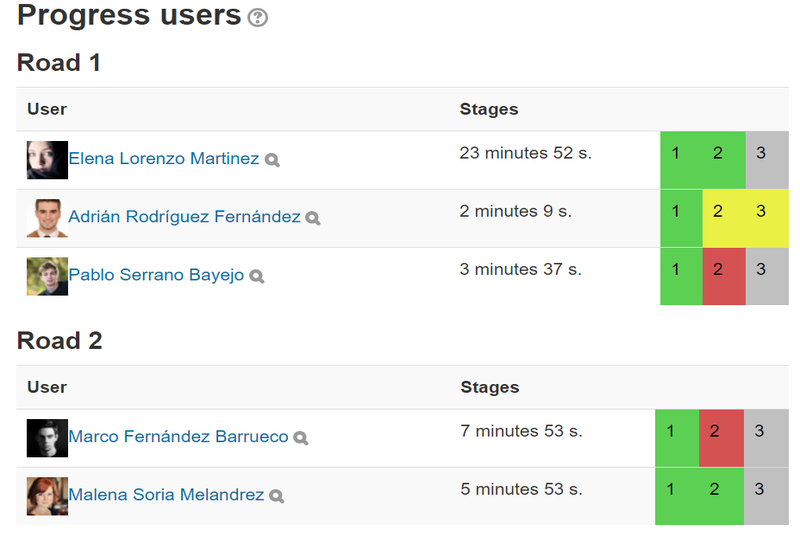
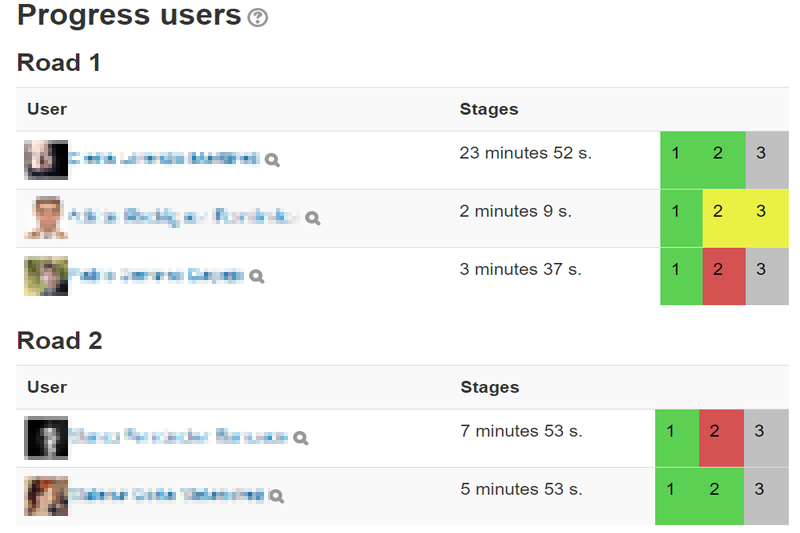
Anonymize some photos. Correct contact info.

Changed region(s): [[0.0312, 0.7805, 0.375, 0.9906], [0.0312, 0.2402, 0.375, 0.4503], [0.0312, 0.4803, 0.3125, 0.5704]]

diff --git a/es/crear_actividad.html b/es/crear_actividad.html
@@ -173,9 +173,8 @@
                     </div>
                     <div class="mbr-footer-content col-xs-12 col-md-4 text-xs-center">
                         <p><strong>Contacto</strong></p>
-                        <p> Email: itast....com</p>
-                        <p> Teléfono: +1 (0) 000 0000 001</p>
-                        <p> Fax: +1 (0) 000 0000 002</p>
+                        <p> Email: jpdecastro@tel.uva.es</p>
+                        <p> Phone: +34 983423699</p>
                     </div>
                 </div>
             </div>

diff --git a/es/instalacion.html b/es/instalacion.html
@@ -142,9 +142,8 @@
                     </div>
                     <div class="mbr-footer-content col-xs-12 col-md-4 text-xs-center">
                         <p><strong>Contacto</strong></p>
-                        <p> Email: itast....com</p>
-                        <p> Teléfono: +1 (0) 000 0000 001</p>
-                        <p> Fax: +1 (0) 000 0000 002</p>
+                        <p> Email: jpdecastro@tel.uva.es</p>
+                        <p> Phone: +34 983423699</p>
                     </div>
                 </div>
             </div>

diff --git a/es/jugar_actividad.html b/es/jugar_actividad.html
@@ -163,9 +163,8 @@
                     </div>
                     <div class="mbr-footer-content col-xs-12 col-md-4 text-xs-center">
                         <p><strong>Contacto</strong></p>
-                        <p> Email: itast....com</p>
-                        <p> Teléfono: +1 (0) 000 0000 001</p>
-                        <p> Fax: +1 (0) 000 0000 002</p>
+                        <p> Email: jpdecastro@tel.uva.es</p>
+                        <p> Phone: +34 983423699</p>
                     </div>
                 </div>
             </div>

diff --git a/create_activity.html b/create_activity.html
@@ -169,9 +169,8 @@
                     </div>
                     <div class="mbr-footer-content col-xs-12 col-md-4 text-xs-center">
                         <p><strong>Contact</strong></p>
-                        <p> Email: itast....com</p>
-                        <p> Phone: +1 (0) 000 0000 001</p>
-                        <p> Fax: +1 (0) 000 0000 002</p>
+                        <p> Email: jpdecastro@tel.uva.es</p>
+                        <p> Phone: +34 983423699</p>
                     </div>
                 </div>
             </div>

diff --git a/install.html b/install.html
@@ -135,9 +135,8 @@
                     </div>
                     <div class="mbr-footer-content col-xs-12 col-md-4 text-xs-center">
                         <p><strong>Contact</strong></p>
-                        <p> Email: itast....com</p>
-                        <p> Phone: +1 (0) 000 0000 001</p>
-                        <p> Fax: +1 (0) 000 0000 002</p>
+                        <p> Email: jpdecastro@tel.uva.es</p>
+                        <p> Phone: +34 983423699</p>
                     </div>
                 </div>
             </div>

diff --git a/play_activity.html b/play_activity.html
@@ -175,9 +175,8 @@
                     </div>
                     <div class="mbr-footer-content col-xs-12 col-md-4 text-xs-center">
                         <p><strong>Contact</strong></p>
-                        <p> Email: itast....com</p>
-                        <p> Phone: +1 (0) 000 0000 001</p>
-                        <p> Fax: +1 (0) 000 0000 002</p>
+                        <p> Email: jpdecastro@tel.uva.es</p>
+                        <p> Phone: +34 983423699</p>
                     </div>
                 </div>
             </div>
